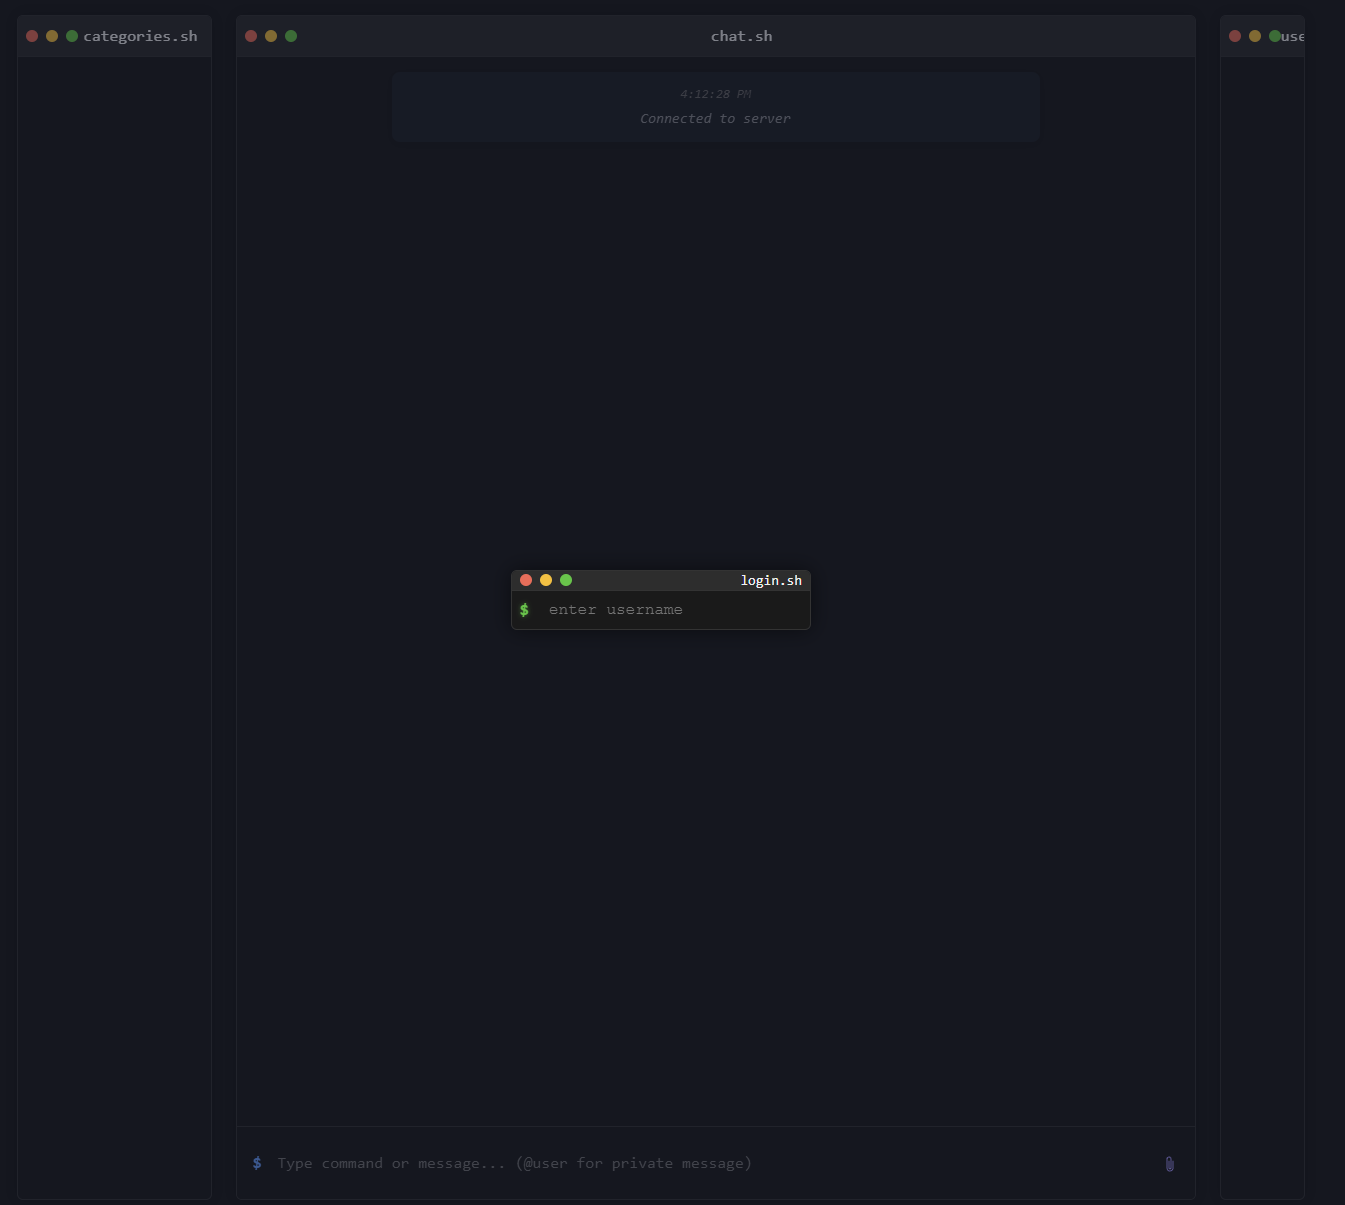
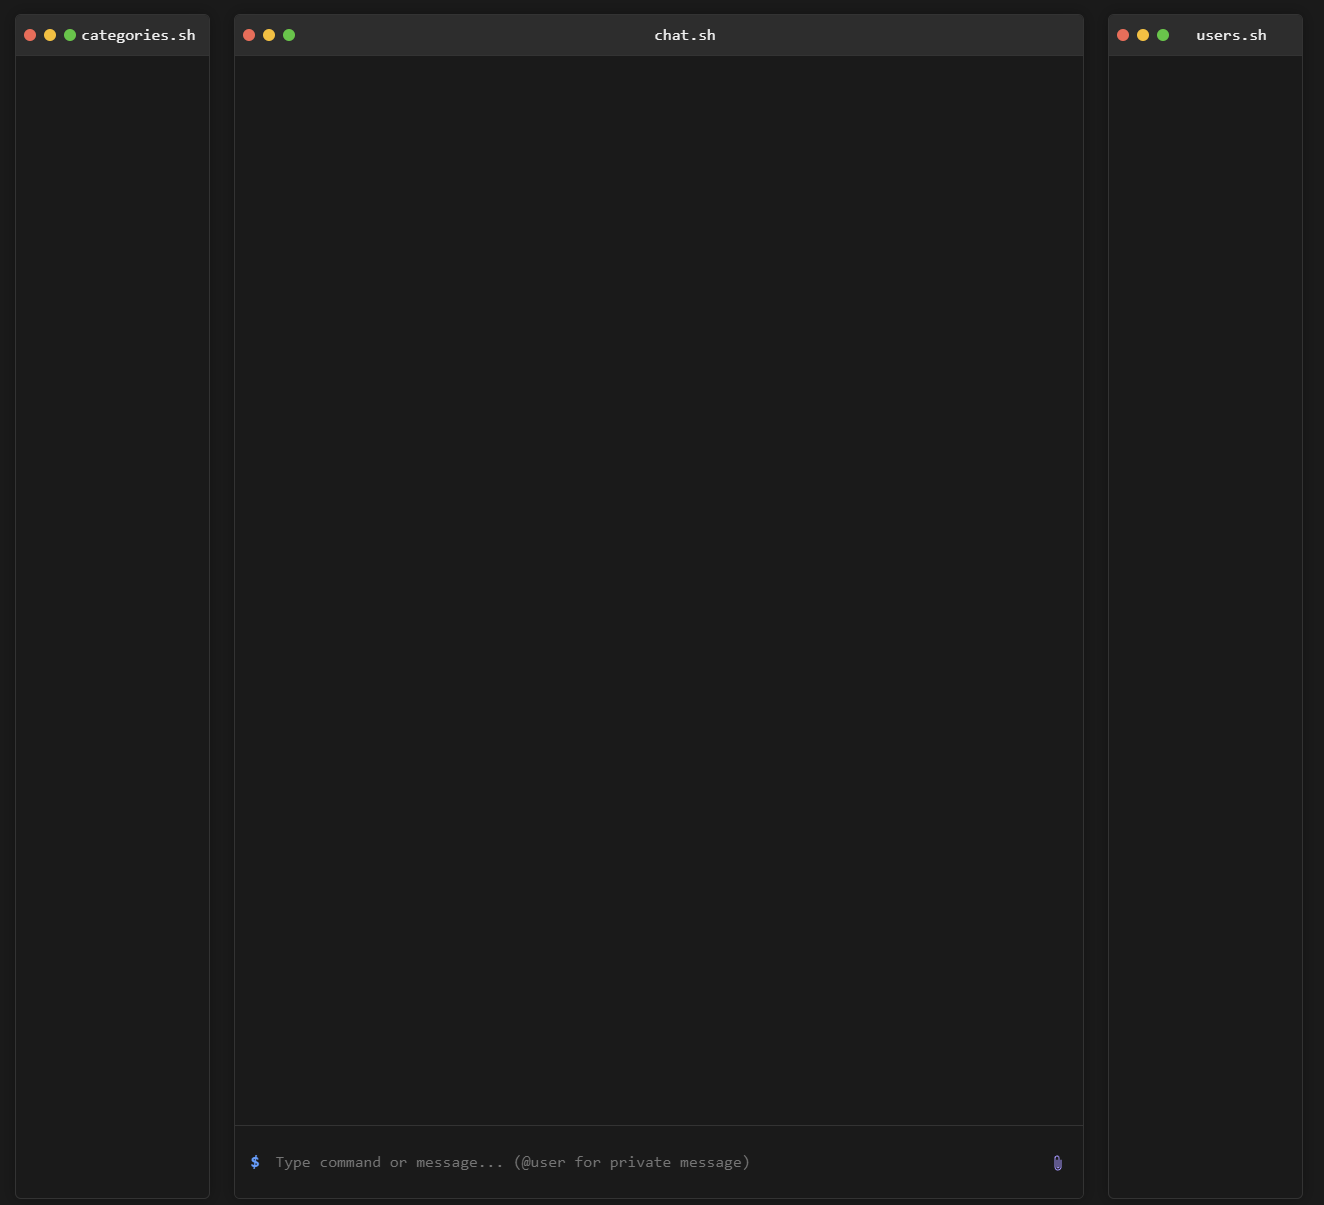
Agent query: Is the login modal now showing when you load the page? Can you enter a username and join the chat?

diff --git a/static/js/chat.js b/static/js/chat.js
@@ -1,5 +1,31 @@
 document.addEventListener('DOMContentLoaded', () => {
     const socket = io();
+    const messageForm = document.getElementById('messageForm');
+    const messageInput = document.getElementById('messageInput');
+    const messageContainer = document.getElementById('messageContainer');
+    const userList = document.getElementById('userList');
+    const usernameModal = new bootstrap.Modal(document.getElementById('usernameModal'), {
+        backdrop: 'static',
+        keyboard: false
+    });
+    let username = '';
+    let user_id = null;
+    const active_users = {};
+
+    // Show login modal on page load
+    usernameModal.show();
+
+    // Handle username form submission
+    document.getElementById('usernameForm').addEventListener('submit', (e) => {
+        e.preventDefault();
+        username = document.getElementById('usernameInput').value.trim();
+        if (username) {
+            usernameModal.hide();
+            socket.emit('join', { username });
+        }
+    });
+document.addEventListener('DOMContentLoaded', () => {
+    const socket = io();
     let username = '';
     let user_id = null;
     let currentChannel = null;
